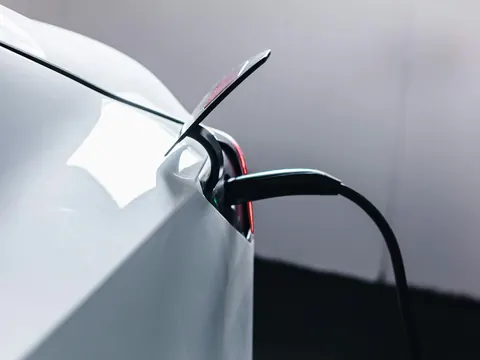
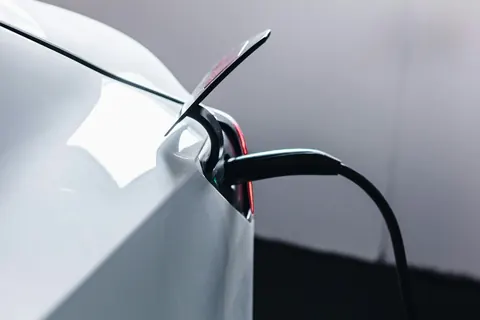
Fix stale-CSS layout break; smaller photo
- CSS/JS URLs carry a content hash (?v=…), so a cached old stylesheet is
  never combined with new HTML (GitHub Pages caches for 10 minutes)
- Photo capped at 800px wide with a 2:1 crop (3:2 on phones)

Claude-Session: https://claude.ai/code/session_01A2AdHAipd4FcixyLGVGrdZ

diff --git a/src/styles.css b/src/styles.css
@@ -204,7 +204,7 @@ h1 {
 :focus-visible { outline: 2px solid var(--text); outline-offset: 2px; }
 
 /* Photo */
-.photo { max-width: var(--max); margin: 0 auto; padding: 0 16px; }
+.photo { max-width: 832px; margin: 0 auto; padding: 0 16px; }
 .photo img { display: block; width: 100%; height: auto; border-radius: 12px; background: var(--surface); }
 .photo figcaption { margin-top: 8px; font-size: 12px; color: var(--muted); text-align: right; }
 .photo figcaption a { color: inherit; }

diff --git a/scripts/photo-crops.py b/scripts/photo-crops.py
@@ -12,8 +12,8 @@ OUT = ROOT / "src/img"
 # Focus point (fraction of width/height) — the charge port.
 FOCUS = (0.42, 0.40)
 CROPS = {
-    "wide": (16, 9, [800, 1280, 1920]),   # desktop, below the hero
-    "mobile": (4, 3, [480, 800, 1200]),   # phones
+    "wide": (2, 1, [800, 1200, 1600]),    # desktop, below the hero
+    "mobile": (3, 2, [480, 720, 1080]),   # phones
     "og": (5, 6, [500]),                  # share-image panel (500×600)
 }
 
